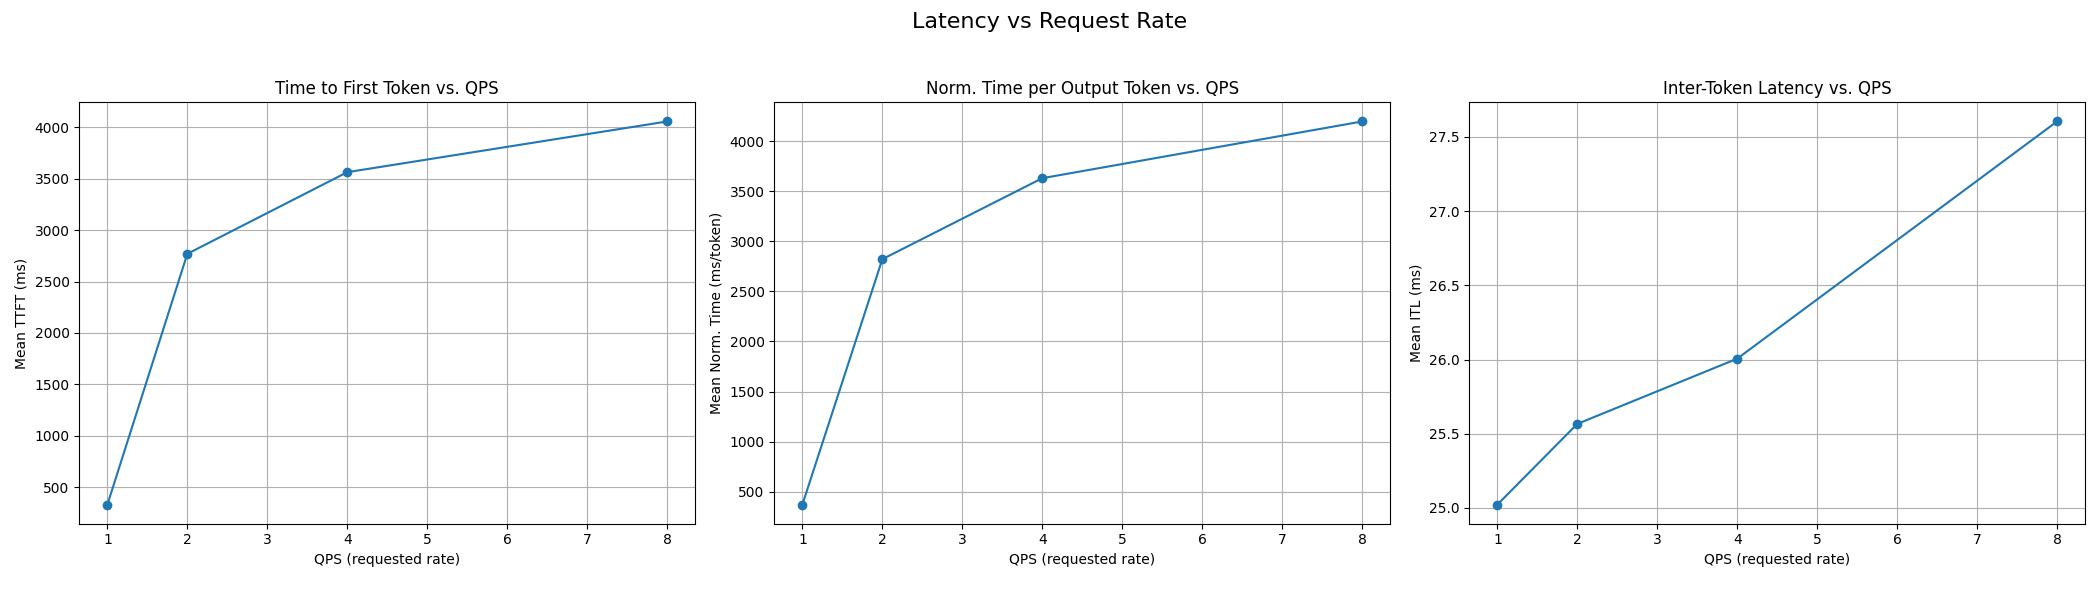
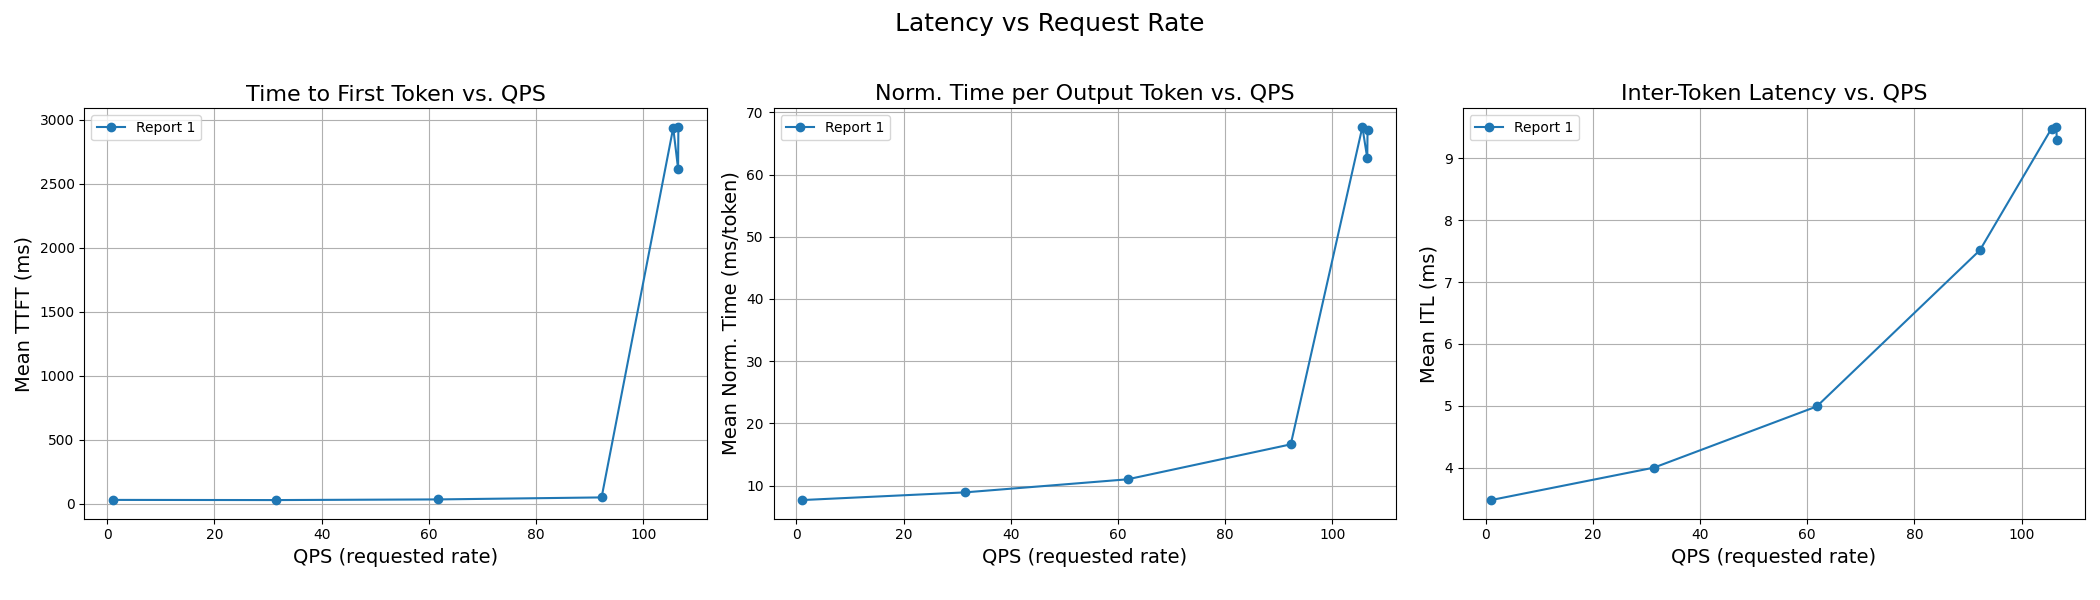
Updating paper charts and description

diff --git a/paper/paper.md b/paper/paper.md
@@ -97,7 +97,7 @@ The main contribution of `inference-perf` is to provide a standardized model-ser
 
 ### Latency
 
-- Time per request (e2e request latency)  
+- Time per request (e2e Request Latency)
 - Time to first token (TTFT)  
 - Time per output token (TPOT)  
 - Normalized time per output token (NTPOT)
@@ -110,7 +110,7 @@ Price-performance metrics below are not directly reported by inference-perf but 
 - Price per million input tokens  
 - Throughput per dollar
 
-The above metrics can also be plotted into charts using the analyze command in the tool at various request rates (QPS) to understand how the latency and throughput scales with the load as shown in the below charts. 
+The above metrics can also be plotted into charts using the analyze command in the tool at various request rates (QPS) to understand how the latency and throughput scales with the load. The charts below demonstrates an analysis presented at KubeCon NA 2025 using `inference-perf` and details of the benchmark conditions can be found in the source repository [@inference-perf-demos].
 
 ![Throughput vs QPS](assets/throughput_vs_qps.png)
 